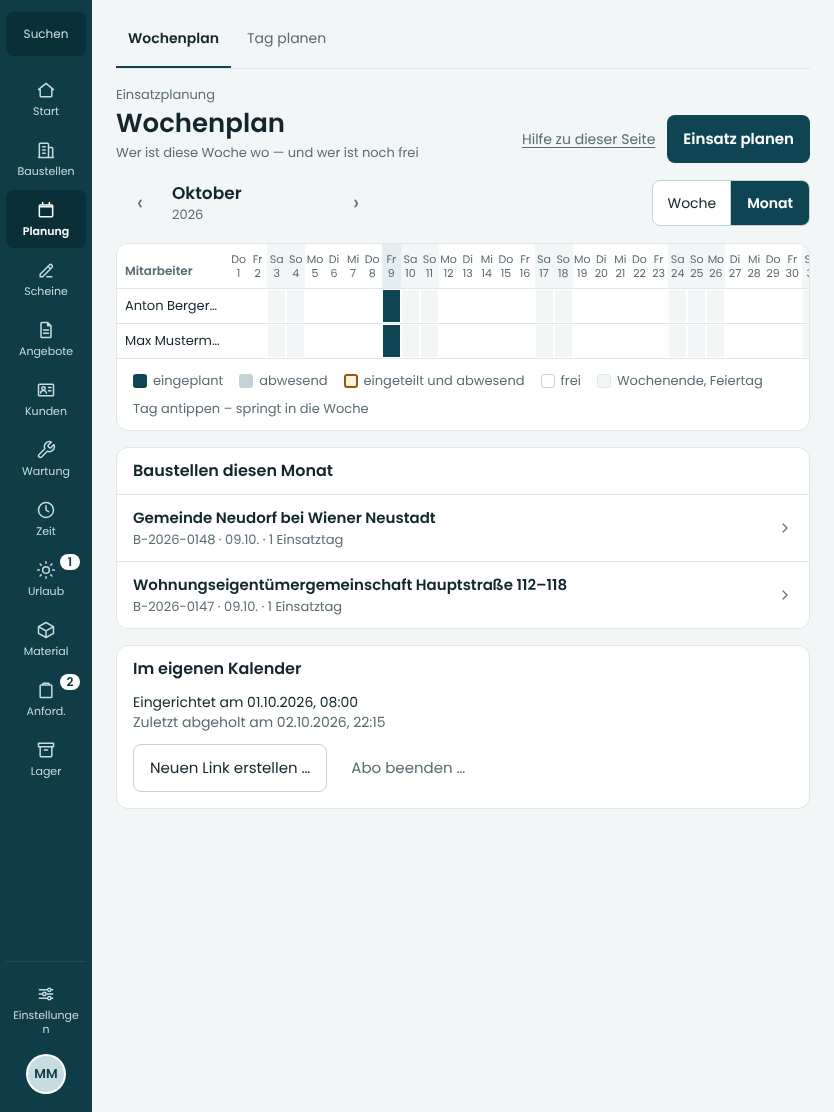
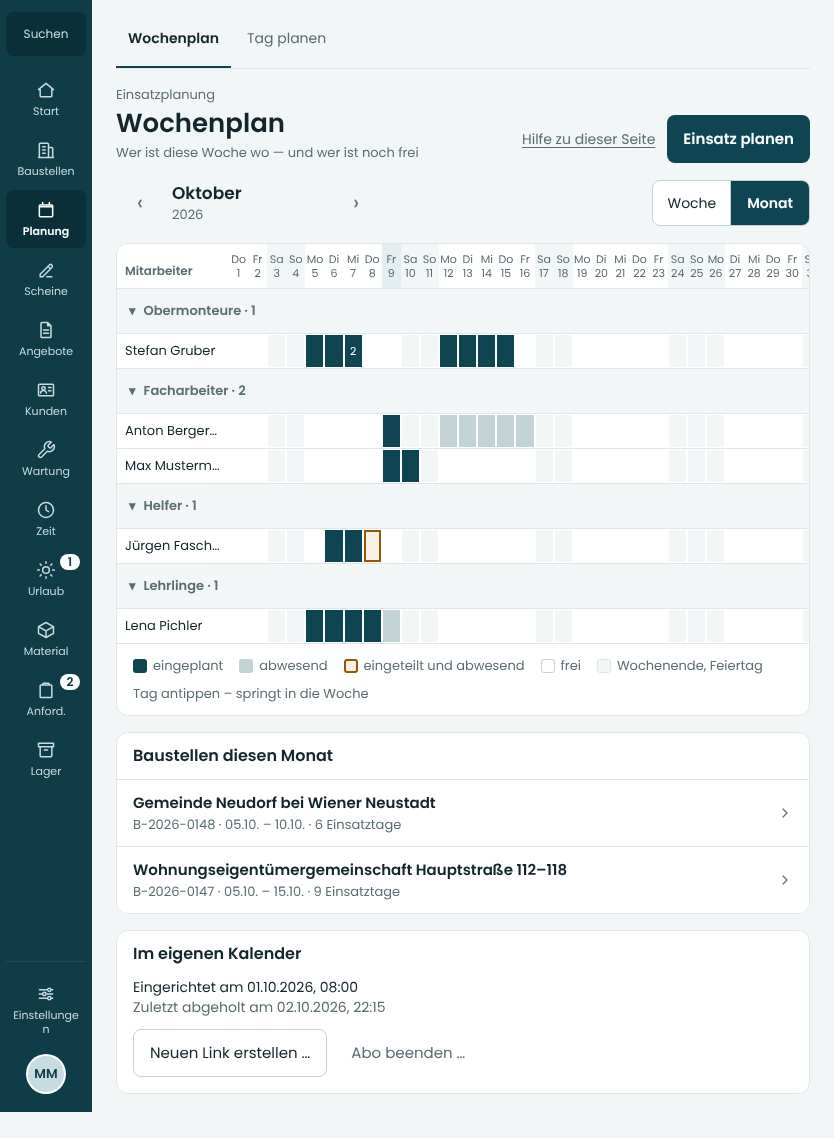
Vorschau: Beispieldaten für Runde 4 (Lücken, Termine, Abwesenheiten, Notdienst); Fotos vorher neu
Die bisherigen Daten hatten zwei Personen und keinen Termin — der Befund
des Auftrags (abgeschnittene Termine, Kästen „frei“, Lücken) war in der
Vorschau nicht zu sehen. Die Tage hängen an der laufenden Woche, damit die
Vorschau nicht nach ein paar Wochen leer ist.

Claude-Session: https://claude.ai/code/session_01EyetfL8jM2L1F4xSGoY9C8

diff --git a/tools/vorschau/daten.ts b/tools/vorschau/daten.ts
@@ -8,6 +8,32 @@
  */
 export const HEUTE = new Date().toISOString().slice(0, 10);
 
+/*
+  TAGE RELATIV ZUR LAUFENDEN WOCHE (Runde 4). Wochenplan, Monat und
+  Mitarbeiterübersicht zeigen den laufenden Zeitraum; feste Daten stünden
+  nach ein paar Wochen ausserhalb und die Vorschau wäre leer. `tag(0)` ist
+  der Montag dieser Woche, `tag(-7)` der Montag davor.
+*/
+const MONTAG = (() => {
+  const d = new Date(`${HEUTE}T00:00:00Z`);
+  d.setUTCDate(d.getUTCDate() - ((d.getUTCDay() + 6) % 7));
+  return d;
+})();
+export const tag = (n: number) => {
+  const d = new Date(MONTAG);
+  d.setUTCDate(d.getUTCDate() + n);
+  return d.toISOString().slice(0, 10);
+};
+/** Die Werktage des laufenden Monats vor heute — für Buchungen mit Lücken. */
+const WERKTAGE_BIS_GESTERN = (() => {
+  const erster = new Date(`${HEUTE.slice(0, 8)}01T00:00:00Z`);
+  const tage: string[] = [];
+  for (const d = new Date(erster); d.toISOString().slice(0, 10) < HEUTE; d.setUTCDate(d.getUTCDate() + 1)) {
+    if (d.getUTCDay() !== 0 && d.getUTCDay() !== 6) tage.push(d.toISOString().slice(0, 10));
+  }
+  return tage;
+})();
+
 export const firma = {
   id: 'perl', name: 'Perl Installationen GmbH',
   addressLine: 'Musterstrasse 1 · 2700 Wiener Neustadt',
@@ -23,6 +49,10 @@ export const benutzer = [
   { id: 'u2', companyId: 'perl', uid: 'u2', name: 'Anton Berger-Steinmetz', email: 'anton.berger@perl.at', role: 'Mitarbeiter', active: true, weeklyTargetHours: 38.5, yearlyVacationDays: 25, appStartDate: '2025-03-01', workDays: [1, 2, 3, 4, 5] },
   { id: 'u3', companyId: 'perl', uid: 'u3', name: 'Michaela Wagner', email: 'm.wagner@perl.at', role: 'Buchhaltung', active: true, weeklyTargetHours: 30, yearlyVacationDays: 25, appStartDate: '2024-09-01', workDays: [1, 2, 3, 4] },
   { id: 'u4', companyId: 'perl', uid: 'u4', name: 'Franz Hinterleitner', email: 'f.hinterleitner@perl.at', role: 'Projektleiter', active: true, weeklyTargetHours: 38.5, yearlyVacationDays: 25, appStartDate: '2023-05-17', workDays: [1, 2, 3, 4, 5] },
+  // Runde 4: genug Leute für Raster, Gruppen und Lücken.
+  { id: 'u5', companyId: 'perl', uid: 'u5', name: 'Lena Pichler', email: 'l.pichler@perl.at', role: 'Mitarbeiter', einstufung: 'lehrling', lehrbeginn: '2025-09-01', lehrzeitMonate: 36, active: true, weeklyTargetHours: 40, yearlyVacationDays: 25, appStartDate: '2025-09-01', workDays: [1, 2, 3, 4, 5] },
+  { id: 'u6', companyId: 'perl', uid: 'u6', name: 'Stefan Gruber', email: 's.gruber@perl.at', role: 'Mitarbeiter', einstufung: 'obermonteur', active: true, weeklyTargetHours: 38.5, yearlyVacationDays: 25, appStartDate: '2022-02-01', workDays: [1, 2, 3, 4, 5] },
+  { id: 'u7', companyId: 'perl', uid: 'u7', name: 'Jürgen Fasching', email: 'j.fasching@perl.at', role: 'Mitarbeiter', einstufung: 'helfer', active: true, weeklyTargetHours: 38.5, yearlyVacationDays: 25, appStartDate: '2024-04-02', workDays: [1, 2, 3, 4, 5] },
 ];
 
 export const kunden = [
@@ -42,6 +72,23 @@ export const zeiten = [
   { id: 't2', companyId: 'perl', date: '2026-09-17', status: 'Anwesend', startTime: '07:30', endTime: '17:00', breakDuration: 45, projectNumber: 'B-2026-0148', customerName: 'Gemeinde Neudorf bei Wiener Neustadt', userId: 'u1', userName: 'Max Mustermann', helperName: 'Anton Berger-Steinmetz' },
   { id: 't3', companyId: 'perl', date: '2026-09-16', status: 'Krank', userId: 'u1', userName: 'Max Mustermann' },
   { id: 't4', companyId: 'perl', date: '2026-09-15', status: 'Urlaub', userId: 'u1', userName: 'Max Mustermann' },
+  /*
+    RUNDE 4: der laufende Monat bis gestern — vollständig bei Stefan, mit
+    Lücken bei Anton und Jürgen, mit Berufsschule und zwei Buchungen an einem
+    Tag bei Lena, mit Krank und Zeitausgleich bei Stefan.
+  */
+  ...WERKTAGE_BIS_GESTERN.flatMap((d, i) => {
+    const b = (id: string, uid: string, name: string, x: Record<string, unknown>) => ({ id: `${id}-${d}`, companyId: 'perl', date: d, userId: uid, userName: name, ...x });
+    const arbeit = { status: 'Anwesend', startTime: '07:00', endTime: '15:30', breakDuration: 30, projectNumber: 'B-2026-0147', customerName: 'Wohnungseigentümergemeinschaft Hauptstraße 112–118' };
+    const liste = [
+      i === 2 ? b('s', 'u6', 'Stefan Gruber', { status: 'Krank' }) : i === 4 ? b('s', 'u6', 'Stefan Gruber', { status: 'Zeitausgleich' }) : b('s', 'u6', 'Stefan Gruber', arbeit),
+      i % 5 === 0 ? b('l', 'u5', 'Lena Pichler', { status: 'Berufsschule' }) : b('l', 'u5', 'Lena Pichler', { ...arbeit, startTime: '07:00', endTime: '11:30', breakDuration: 0 }),
+    ];
+    if (i % 5 !== 0) liste.push(b('l2', 'u5', 'Lena Pichler', { ...arbeit, startTime: '12:00', endTime: i === 1 ? '17:30' : '15:30', breakDuration: 0, projectNumber: 'B-2026-0148', customerName: 'Gemeinde Neudorf bei Wiener Neustadt' }));
+    if (i !== 1 && i !== 3) liste.push(b('a', 'u2', 'Anton Berger-Steinmetz', { ...arbeit, endTime: '16:00' }));
+    if (i < 2) liste.push(b('j', 'u7', 'Jürgen Fasching', arbeit));
+    return liste;
+  }),
 ];
 
 export const bestellungen = [
@@ -75,6 +122,36 @@ export const urlaube = [
 export const einsaetze = [
   { id: 'a1', companyId: 'perl', date: HEUTE, projectNumber: 'B-2026-0147', userId: 'u1', userName: 'Max Mustermann', comment: 'Verteiler, Vormittag' },
   { id: 'a2', companyId: 'perl', date: HEUTE, projectNumber: 'B-2026-0148', userId: 'u2', userName: 'Anton Berger-Steinmetz', asHelper: true },
+  /*
+    RUNDE 4: eine Woche mit Mehrtageseinsätzen (Balken im Monat), zwei
+    Einsätzen an einem Tag (Stefan am Mittwoch), einem Notdienst am Samstag
+    und einem Eingeteilten, der krank ist (Jürgen am Donnerstag).
+  */
+  ...[0, 1, 2].map((n) => ({ id: `r4-s${n}`, companyId: 'perl', date: tag(n), projectNumber: 'B-2026-0147', userId: 'u6', userName: 'Stefan Gruber', startTime: '07:00', endTime: '15:30', comment: 'Steigleitung Stiege 2' })),
+  { id: 'r4-s2b', companyId: 'perl', date: tag(2), projectNumber: 'B-2026-0148', userId: 'u6', userName: 'Stefan Gruber', startTime: '16:00', endTime: '18:00' },
+  ...[0, 1, 2, 3].map((n) => ({ id: `r4-l${n}`, companyId: 'perl', date: tag(n), projectNumber: 'B-2026-0148', userId: 'u5', userName: 'Lena Pichler', asHelper: true })),
+  ...[1, 2, 3].map((n) => ({ id: `r4-j${n}`, companyId: 'perl', date: tag(n), projectNumber: 'B-2026-0147', userId: 'u7', userName: 'Jürgen Fasching', asHelper: true })),
+  { id: 'r4-not', companyId: 'perl', date: tag(5), projectNumber: 'B-2026-0148', userId: 'u1', userName: 'Max Mustermann', startTime: '08:00', endTime: '12:00', comment: 'Notdienst Rohrbruch' },
+  ...[7, 8, 9, 10].map((n) => ({ id: `r4-n${n}`, companyId: 'perl', date: tag(n), projectNumber: 'B-2026-0147', userId: 'u6', userName: 'Stefan Gruber', startTime: '07:00', endTime: '15:30' })),
+];
+
+/** Wer abwesend ist (`wochenplan_abwesend`): Jürgen krank am Donnerstag, Anton im Urlaub ab nächster Woche. */
+export const abwesend = [
+  { userId: 'u7', von: tag(3), bis: tag(3), grund: 'Krank', zeiten: null },
+  { userId: 'u2', von: tag(7), bis: tag(11), grund: 'Urlaub', zeiten: null },
+  { userId: 'u5', von: tag(4), bis: tag(4), grund: 'Berufsschule', zeiten: null },
+];
+
+/*
+  TERMINE (Runde 4): eine Lieferung an einer Baustelle mit Einsatz, eine
+  Lieferung, bei der niemand dort ist, eine Besichtigung nur am Kunden und
+  eine Abnahme mit der Projektleitung (nicht im Raster).
+*/
+export const termine = [
+  { id: 'tm1', companyId: 'perl', art: 'Lieferung', datum: tag(1), zeitVon: '08:00', zeitBis: '10:00', projectNumber: 'B-2026-0147', teilnehmer: ['u6'], ortName: 'Wohnungseigentümergemeinschaft Hauptstraße 112–118', ortAdresse: 'Hauptstraße 112–118, 2700 Wiener Neustadt', notiz: 'Heizkörper, 2 Paletten' },
+  { id: 'tm2', companyId: 'perl', art: 'Lieferung', datum: tag(4), zeitVon: '07:00', zeitBis: '09:00', projectNumber: 'B-2026-0149', teilnehmer: [], ortName: 'Familie Huber', ortAdresse: 'Ringstraße 3' },
+  { id: 'tm3', companyId: 'perl', art: 'Besichtigung', datum: tag(2), zeitVon: '14:00', zeitBis: '15:00', customerId: 'k3', teilnehmer: ['u1'], ortName: 'Familie Huber', ortAdresse: 'Ringstraße 3' },
+  { id: 'tm4', companyId: 'perl', art: 'Abnahme', datum: tag(3), zeitVon: null, zeitBis: null, projectNumber: 'B-2026-0148', teilnehmer: ['u4'], ortName: 'Gemeinde Neudorf bei Wiener Neustadt', ortAdresse: 'Rathausplatz 1, 2620 Neunkirchen' },
 ];
 
 /** Eine Rüstliste für den Einsatz von heute — halb eingeladen, damit beide Zustände zu sehen sind. */
